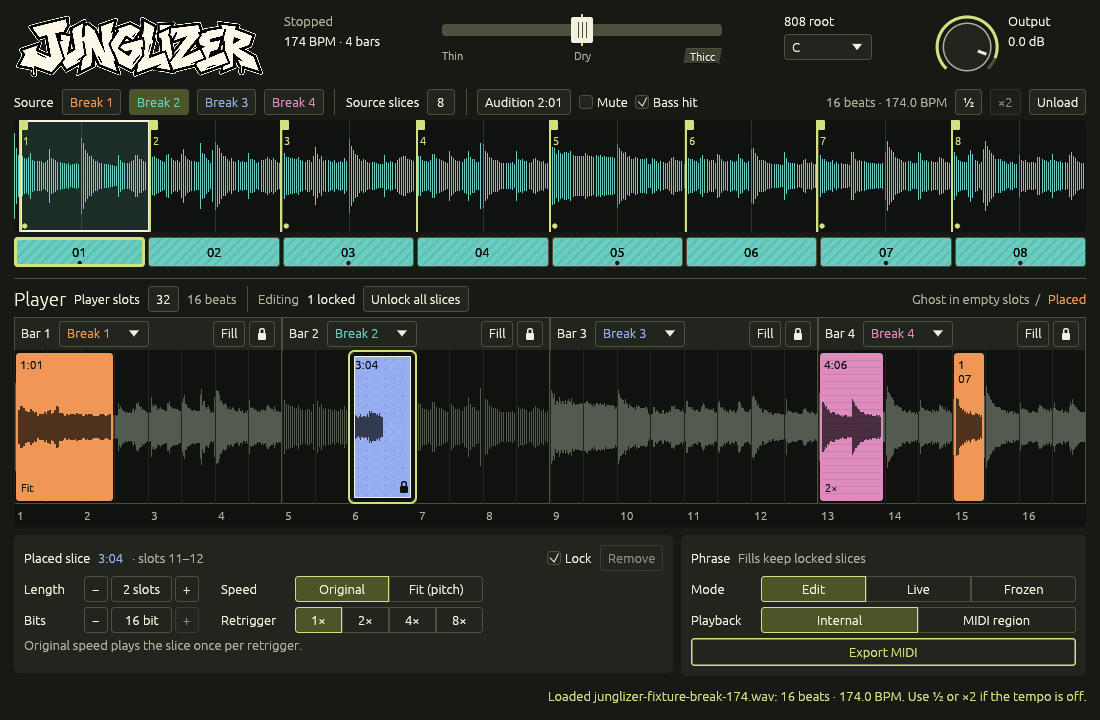
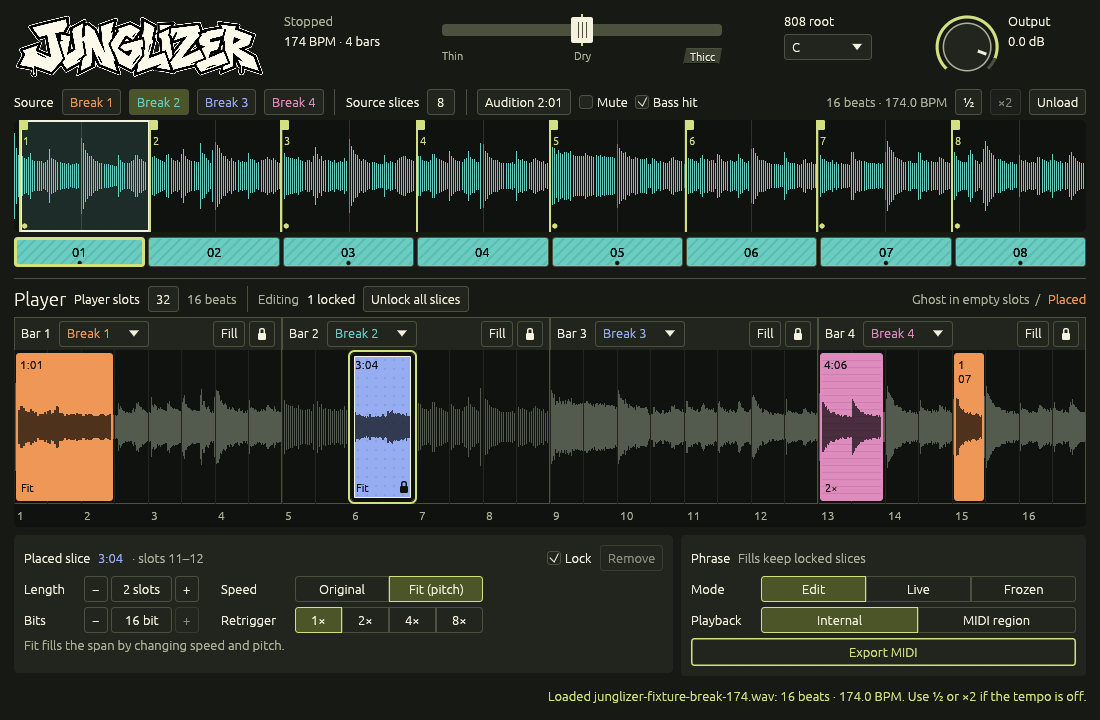
Fixture: every placement fills (Fit on the locked and 1-slot ones); regenerate screenshots

Changed region(s): [[0.2473, 0.7944, 0.4636, 0.8556], [0.0309, 0.8861, 0.2782, 0.9167], [0.34, 0.55, 0.3709, 0.6111]]

diff --git a/src/ui_tests.rs b/src/ui_tests.rs
@@ -61,14 +61,13 @@ fn fixture(
     ) {
         editor.state.update(|s| {
             // (slot, source, slice, length, mode, repeats): Fit or retriggers
-            // make short slices fill their span; the locked one at slot 10
-            // already does.
+            // make every placement fill its span.
             for (slot, source, slice, length, mode, repeats) in [
                 (0, 0, 0, 3, 1, 1),
-                (5, 1, 2, 1, 0, 1),
-                (10, 2, 3, 2, 0, 1),
+                (5, 1, 2, 1, 1, 1),
+                (10, 2, 3, 2, 1, 1),
                 (24, 3, 5, 2, 0, 2),
-                (28, 0, 6, 1, 0, 1),
+                (28, 0, 6, 1, 1, 1),
                 (30, 1, 1, 2, 0, 2),
             ] {
                 assert!(s.place(StepPlacement {
